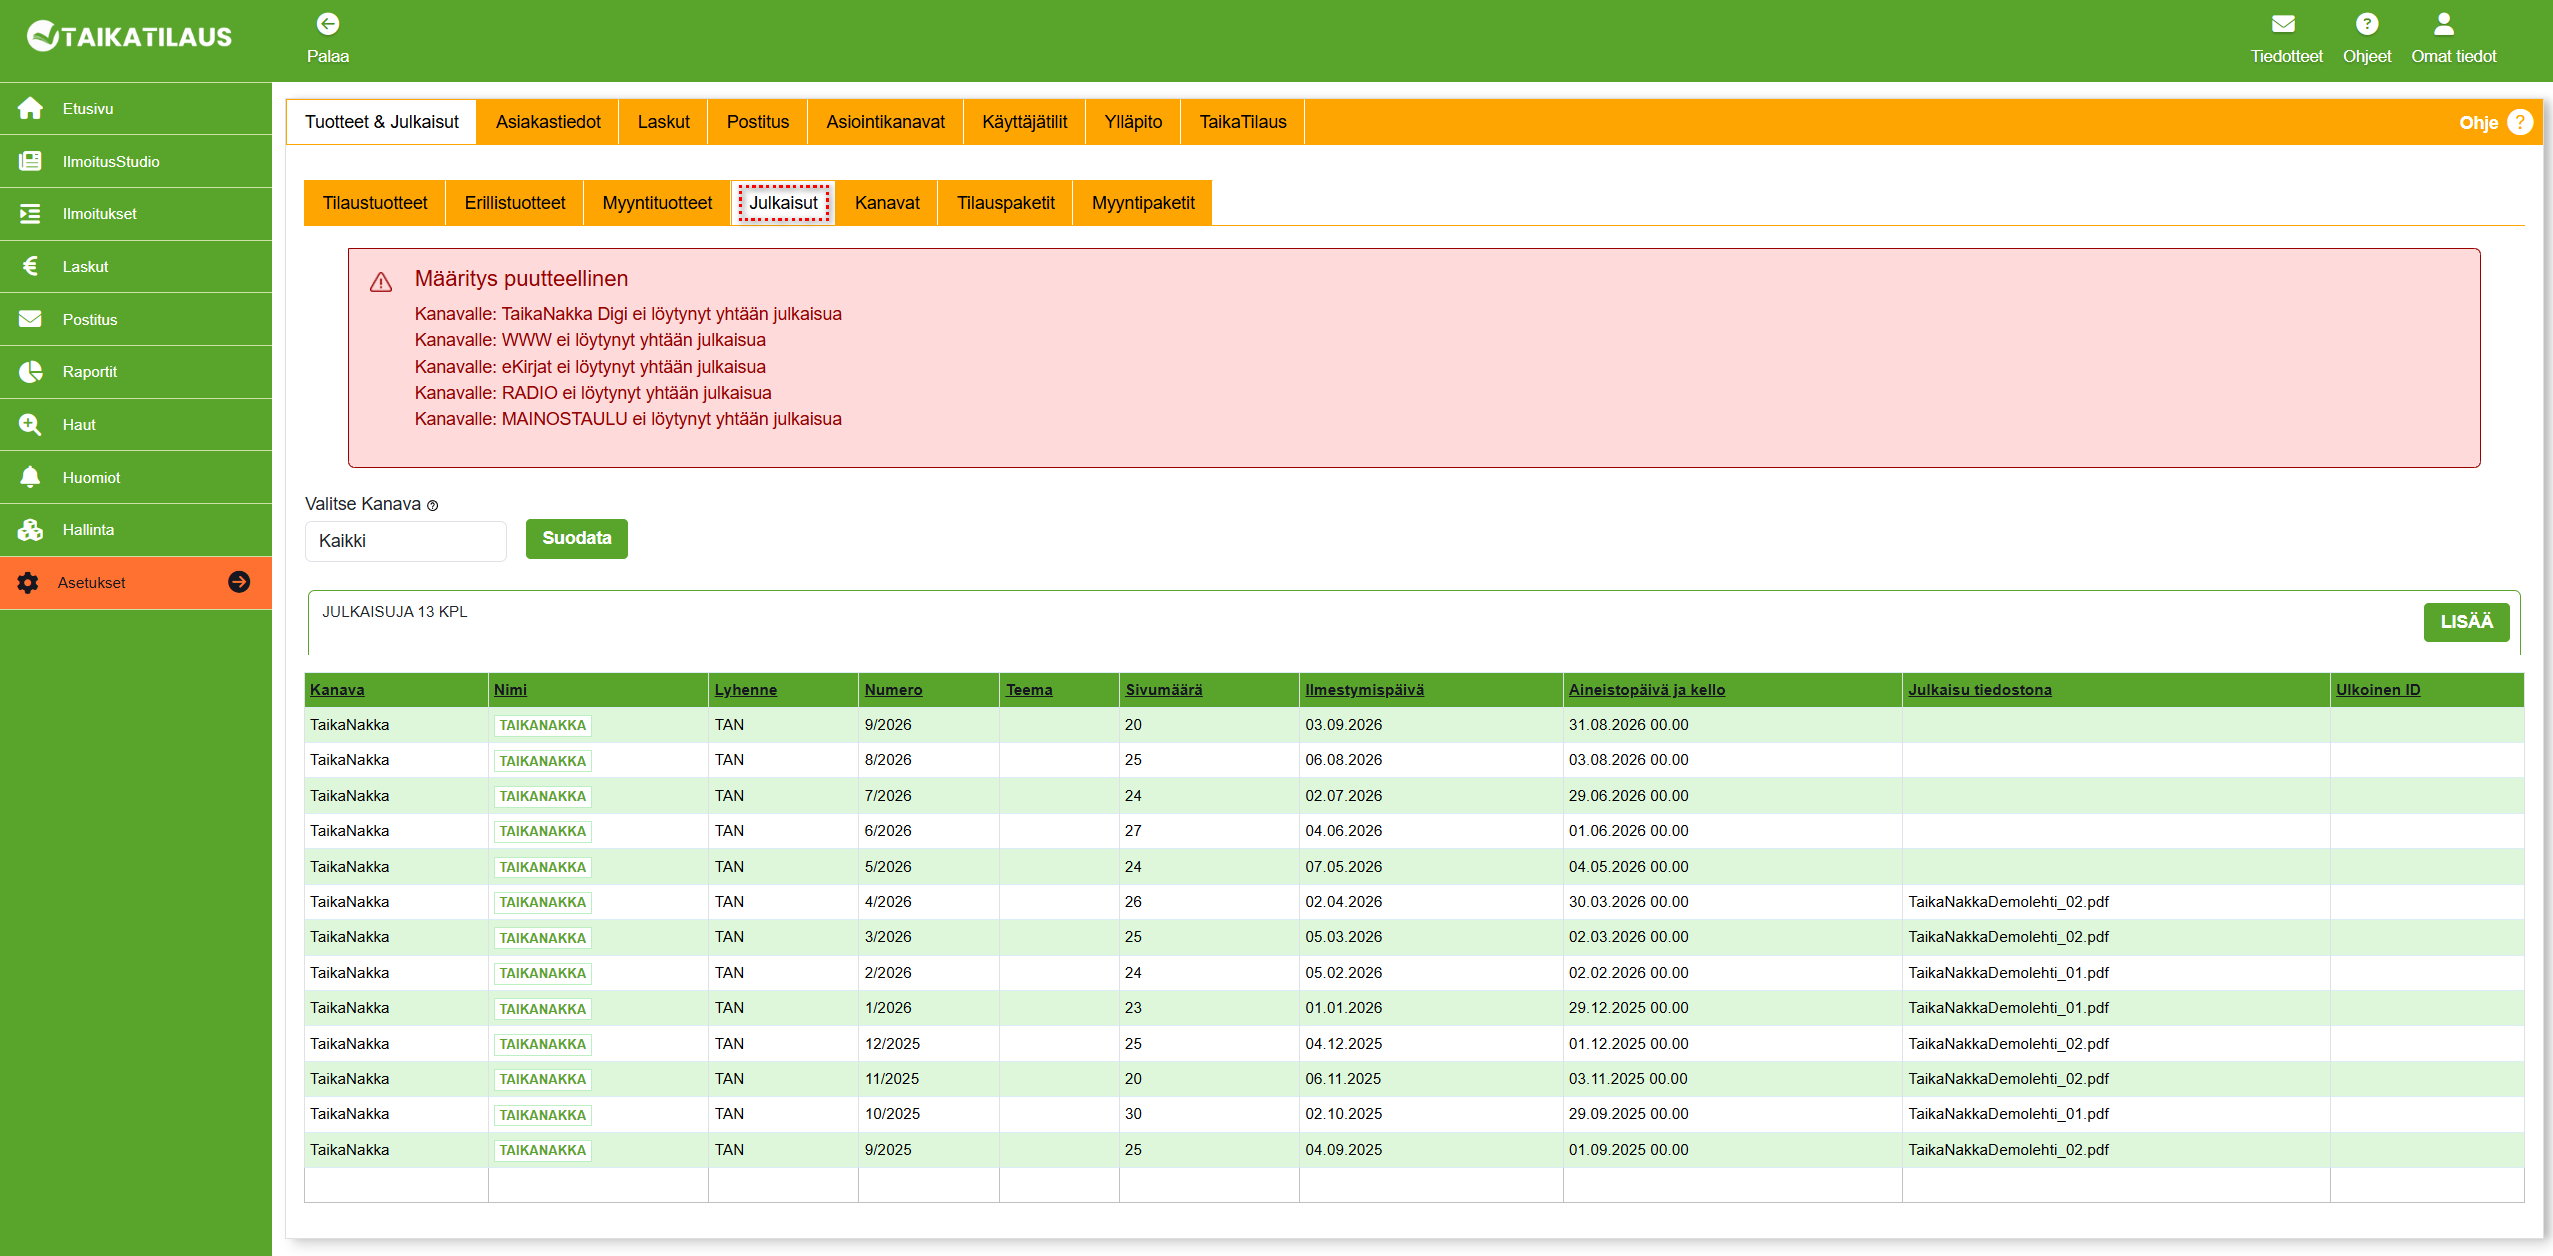
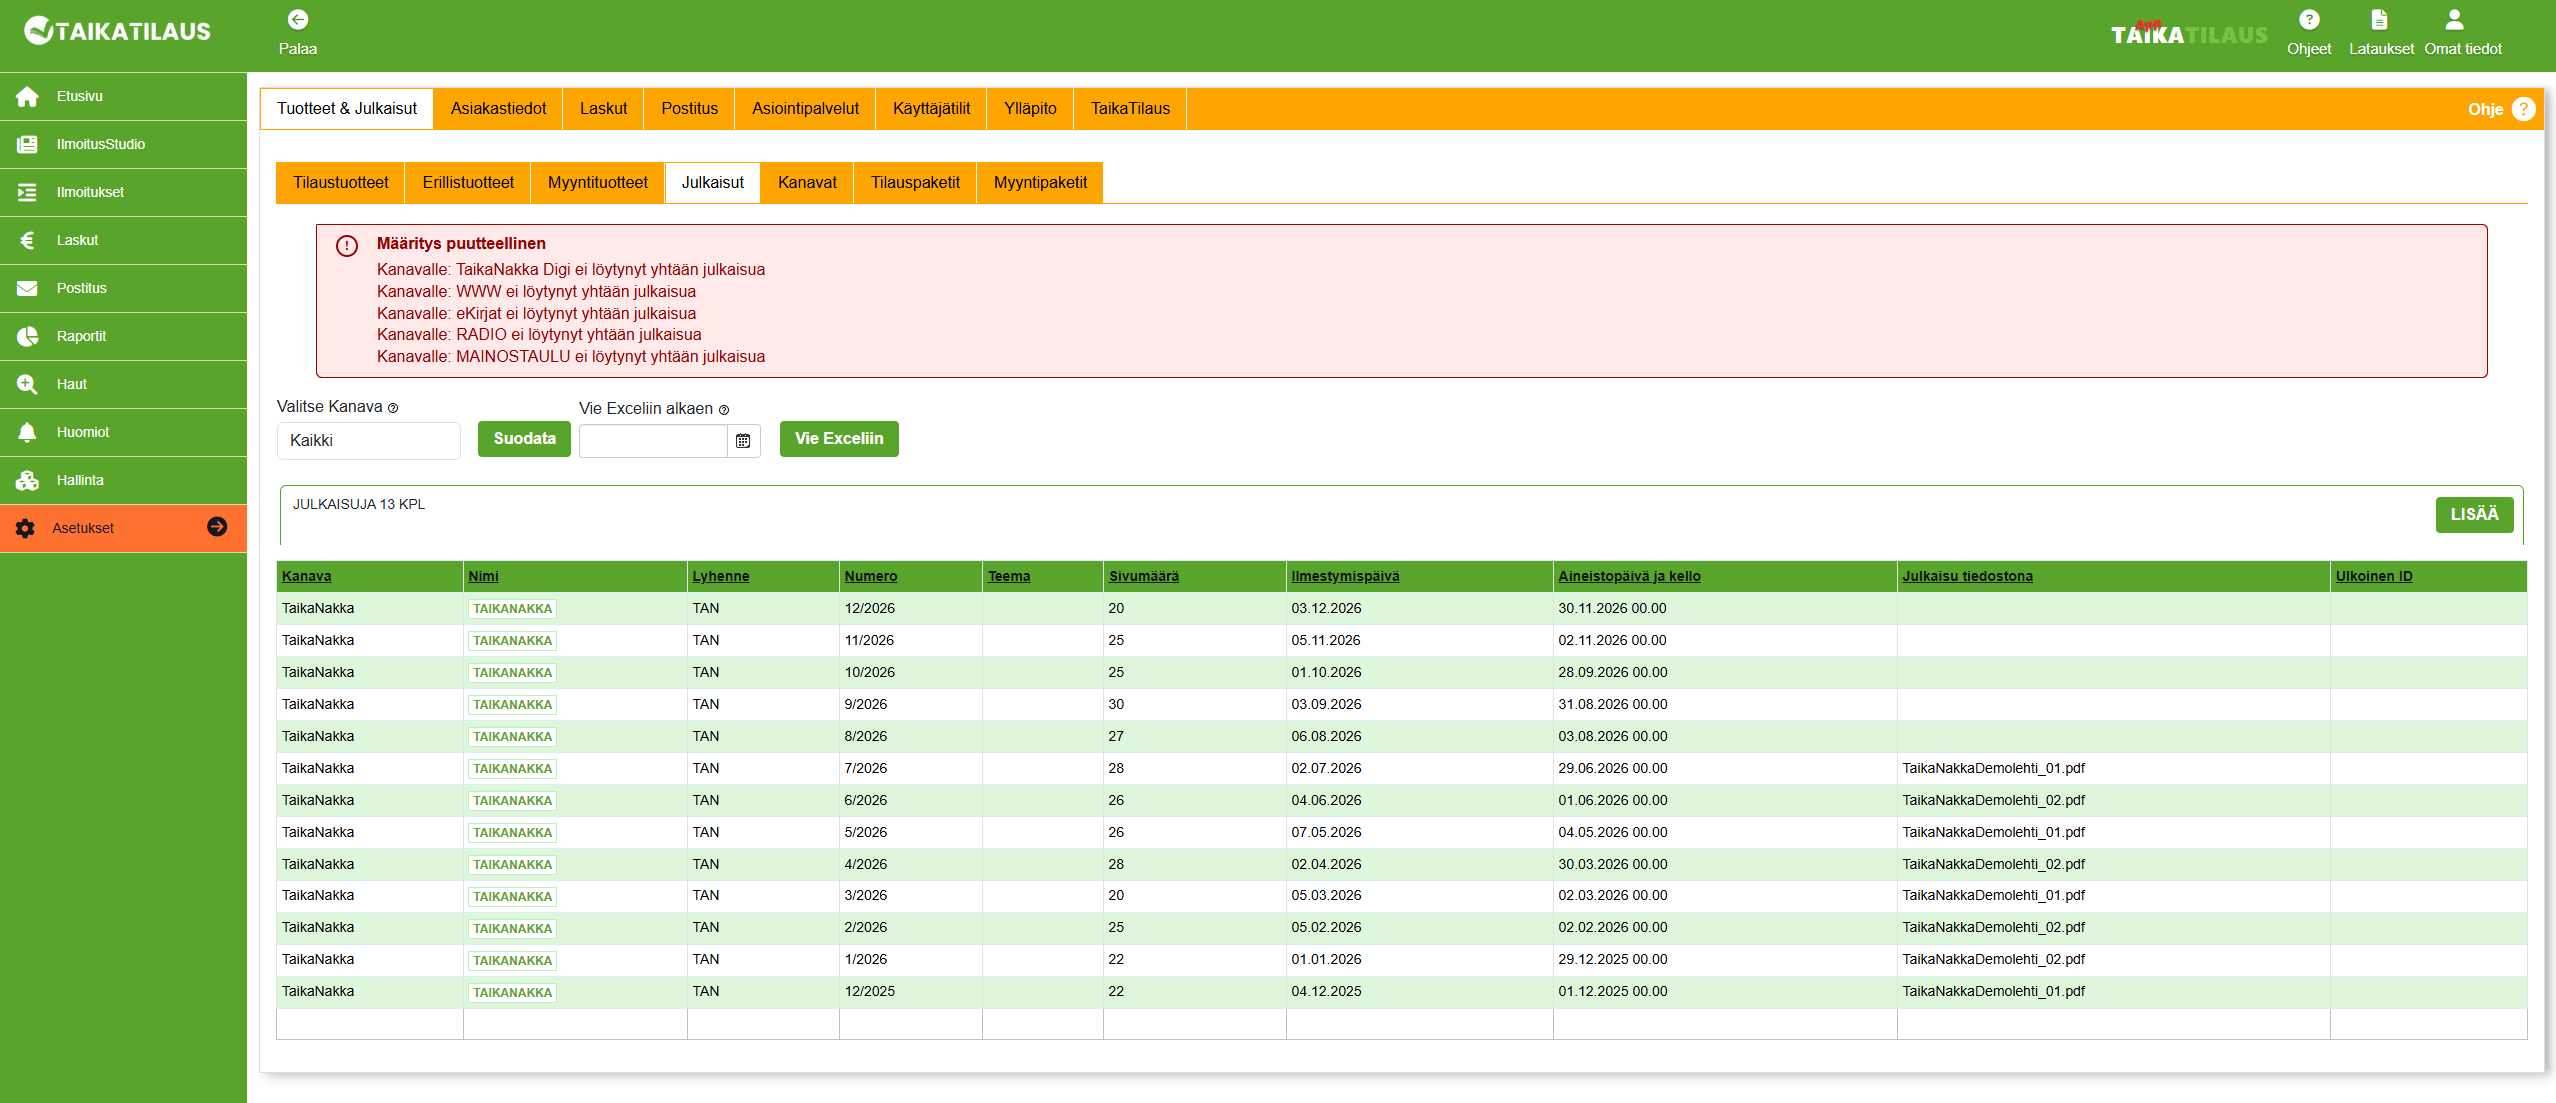
julkaisut muutos

diff --git a/docs/ohjeet/asetukset/tuotteet-ja-julkaisut/julkaisut.md b/docs/ohjeet/asetukset/tuotteet-ja-julkaisut/julkaisut.md
@@ -4,14 +4,16 @@ sidebar_position: 4
 
 # Julkaisut
 
+![Julkaisut](/img/ohjeet/julkaisut.png)
+*Julkaisut-välilehti*
+
 **Julkaisut**-välilehdellä voi muokata ja lisätä julkaisuja. **Julkaisu on tuote**, jossa mainos tai ilmoitus esitetään, kuten lehti, radiomainos, uutiskirje tai www-sivu.  
 
 **Lisää**-painikkeella voidaan lisätä yksittäisiä julkaisuja eri kanavia varten.  
 
 Julkaisuja voi muuttaa tai poistaa klikkaamalla **Nimi**-sarakkeessa olevaa julkaisun nimeä.
 
-![Julkaisut](/img/ohjeet/julkaisut.png)
-*Julkaisut-välilehti*
+Voit viedä julkaisut Exceliin haluamastasi päivämäärästä lähtien antamalla päivämäärä **Vie Exceliin alkaen** -kenttään ja painamalla **Vie Exceliin** -painiketta. Excel-ilmestyy ohjelman yläpalkkiin ladattavaksi. 
 
 ### Julkaisun lisääminen
 
